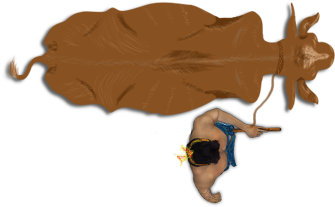
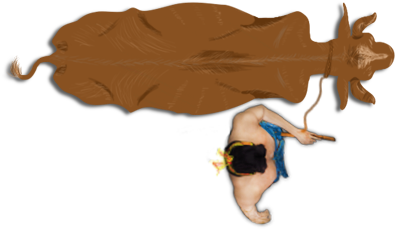
Changed the cow

diff --git a/c2runtime.js b/c2runtime.js
@@ -19410,7 +19410,7 @@ cr.getProjectModel = function() { return [
 			false,
 			632856153301667,
 			[
-				["images/goru-sheet0.png", 48960, 0, 0, 335, 207, 1, 0.6776119470596314, 0.4975845515727997,[["Imagepoint 1", -0.0746268630027771, 0.4975845515727997]],[-0.6776119470596314,0.002415448427200317,0.3223880529403687,-0.4975845515727997,0.3223880529403687,0.5024154186248779],0]
+				["images/goru-sheet0.png", 60117, 0, 0, 395, 229, 1, 0.501265823841095, 0.6768559217453003,[["Imagepoint 1", 0.501265823841095, -0.07423580437898636]],[-0.001265823841094971,-0.6768559217453003,0.498734176158905,0.3231440782546997,-0.501265823841095,0.3231440782546997],0]
 			]
 			]
 		],
@@ -20301,7 +20301,7 @@ cr.getProjectModel = function() { return [
 			false,
 			2153465221105383,
 			[
-				["images/sprite5-sheet0.png", 58009, 0, 0, 551, 957, 1, 0.5009074211120606, 0.5005224943161011,[],[-0.3956444263458252,-0.4306429922580719,-0.001814424991607666,-0.4981128573417664,0.4410165548324585,-0.4619683027267456,0.3684206008911133,-0.0005224943161010742,0.3847545981407166,0.4235734939575195,-0.001814424991607666,0.4910435080528259,-0.4301270246505737,0.4524894952774048,-0.3738654255867004,-0.0005224943161010742],0]
+				["images/sprite5-sheet0.png", 62008, 0, 0, 473, 1051, 1, 0.5010570883750916, 0.5004757642745972,[],[-0.3957940936088562,-0.430596262216568,-0.001964092254638672,-0.4980661273002625,0.4408668875694275,-0.4619215726852417,0.3682709336280823,-0.000475764274597168,0.3846049308776856,0.4236202239990234,-0.001964092254638672,0.4910902380943298,-0.4302766919136047,0.4525362253189087,-0.3740150928497315,-0.000475764274597168],0]
 			]
 			]
 		],
@@ -20695,7 +20695,7 @@ cr.getProjectModel = function() { return [
 				]
 			]
 ,			[
-				[231, 225, 0, 203.1906127929688, 352.9100036621094, 0, 0, 1, 0.5009074211120606, 0.5005224943161011, 0, 0, []],
+				[231, 225, 0, 174.4267883300781, 387.5740966796875, 0, 0, 1, 0.5010570883750916, 0.5004757642745972, 0, 0, []],
 				31,
 				52,
 				[
@@ -21317,7 +21317,7 @@ cr.getProjectModel = function() { return [
 				]
 			]
 ,			[
-				[211.6115875244141, 553.521484375, 0, 99.22785186767578, 71.85124206542969, 0, -1.570796489715576, 1, 0.6776119470596314, 0.4975845515727997, 0, 0, []],
+				[211.6115875244141, 553.521484375, 0, 117.0000076293945, 79.48760223388672, 0, -1.570796489715576, 1, 0.501265823841095, 0.6768559217453003, 0, 0, []],
 				0,
 				3,
 				[
@@ -21926,7 +21926,7 @@ cr.getProjectModel = function() { return [
 				]
 			]
 ,			[
-				[234, 206, 0, 192.1709289550781, 333.7705383300781, 0, 0, 1, 0.5009074211120606, 0.5005224943161011, 0, 0, []],
+				[232.7339782714844, 194.3125, 0, 154.4571838378906, 343.201904296875, 0, 0, 1, 0.5010570883750916, 0.5004757642745972, 0, 0, []],
 				31,
 				54,
 				[
@@ -22026,7 +22026,7 @@ cr.getProjectModel = function() { return [
 				]
 			]
 ,			[
-				[234, 128, 0, 125.3480453491211, 217.7097320556641, 0, 0, 1, 0.5009074211120606, 0.5005224943161011, 0, 0, []],
+				[228.553466796875, 122.9119338989258, 0, 96.73360443115234, 214.9408111572266, 0, 0, 1, 0.5010570883750916, 0.5004757642745972, 0, 0, []],
 				31,
 				60,
 				[
@@ -23527,6 +23527,19 @@ false,false,2866061305080595,false
 				]
 				]
 			]
+,			[
+				26,
+				cr.plugins_.Button.prototype.acts.SetVisible,
+				null,
+				628572516682424,
+				false
+				,[
+				[
+					3,
+					1
+				]
+				]
+			]
 			]
 		]
 ,		[
@@ -23960,6 +23973,19 @@ false,false,2866061305080595,false
 						2,
 						"bold"
 					]
+				]
+				]
+			]
+,			[
+				26,
+				cr.plugins_.Button.prototype.acts.SetVisible,
+				null,
+				2233335666544499,
+				false
+				,[
+				[
+					3,
+					0
 				]
 				]
 			]

diff --git a/index.html b/index.html
@@ -3,7 +3,7 @@
 <head>
     <meta charset="UTF-8" />
 	<meta http-equiv="X-UA-Compatible" content="IE=edge,chrome=1" />
-	<title>Save Your Cow | The Ruchi Game</title>
+	<title>Save The Cow | The Ruchi Game</title>
 	
 	<!-- Standardised web app manifest -->
 	<link rel="manifest" href="app.manifest" />
